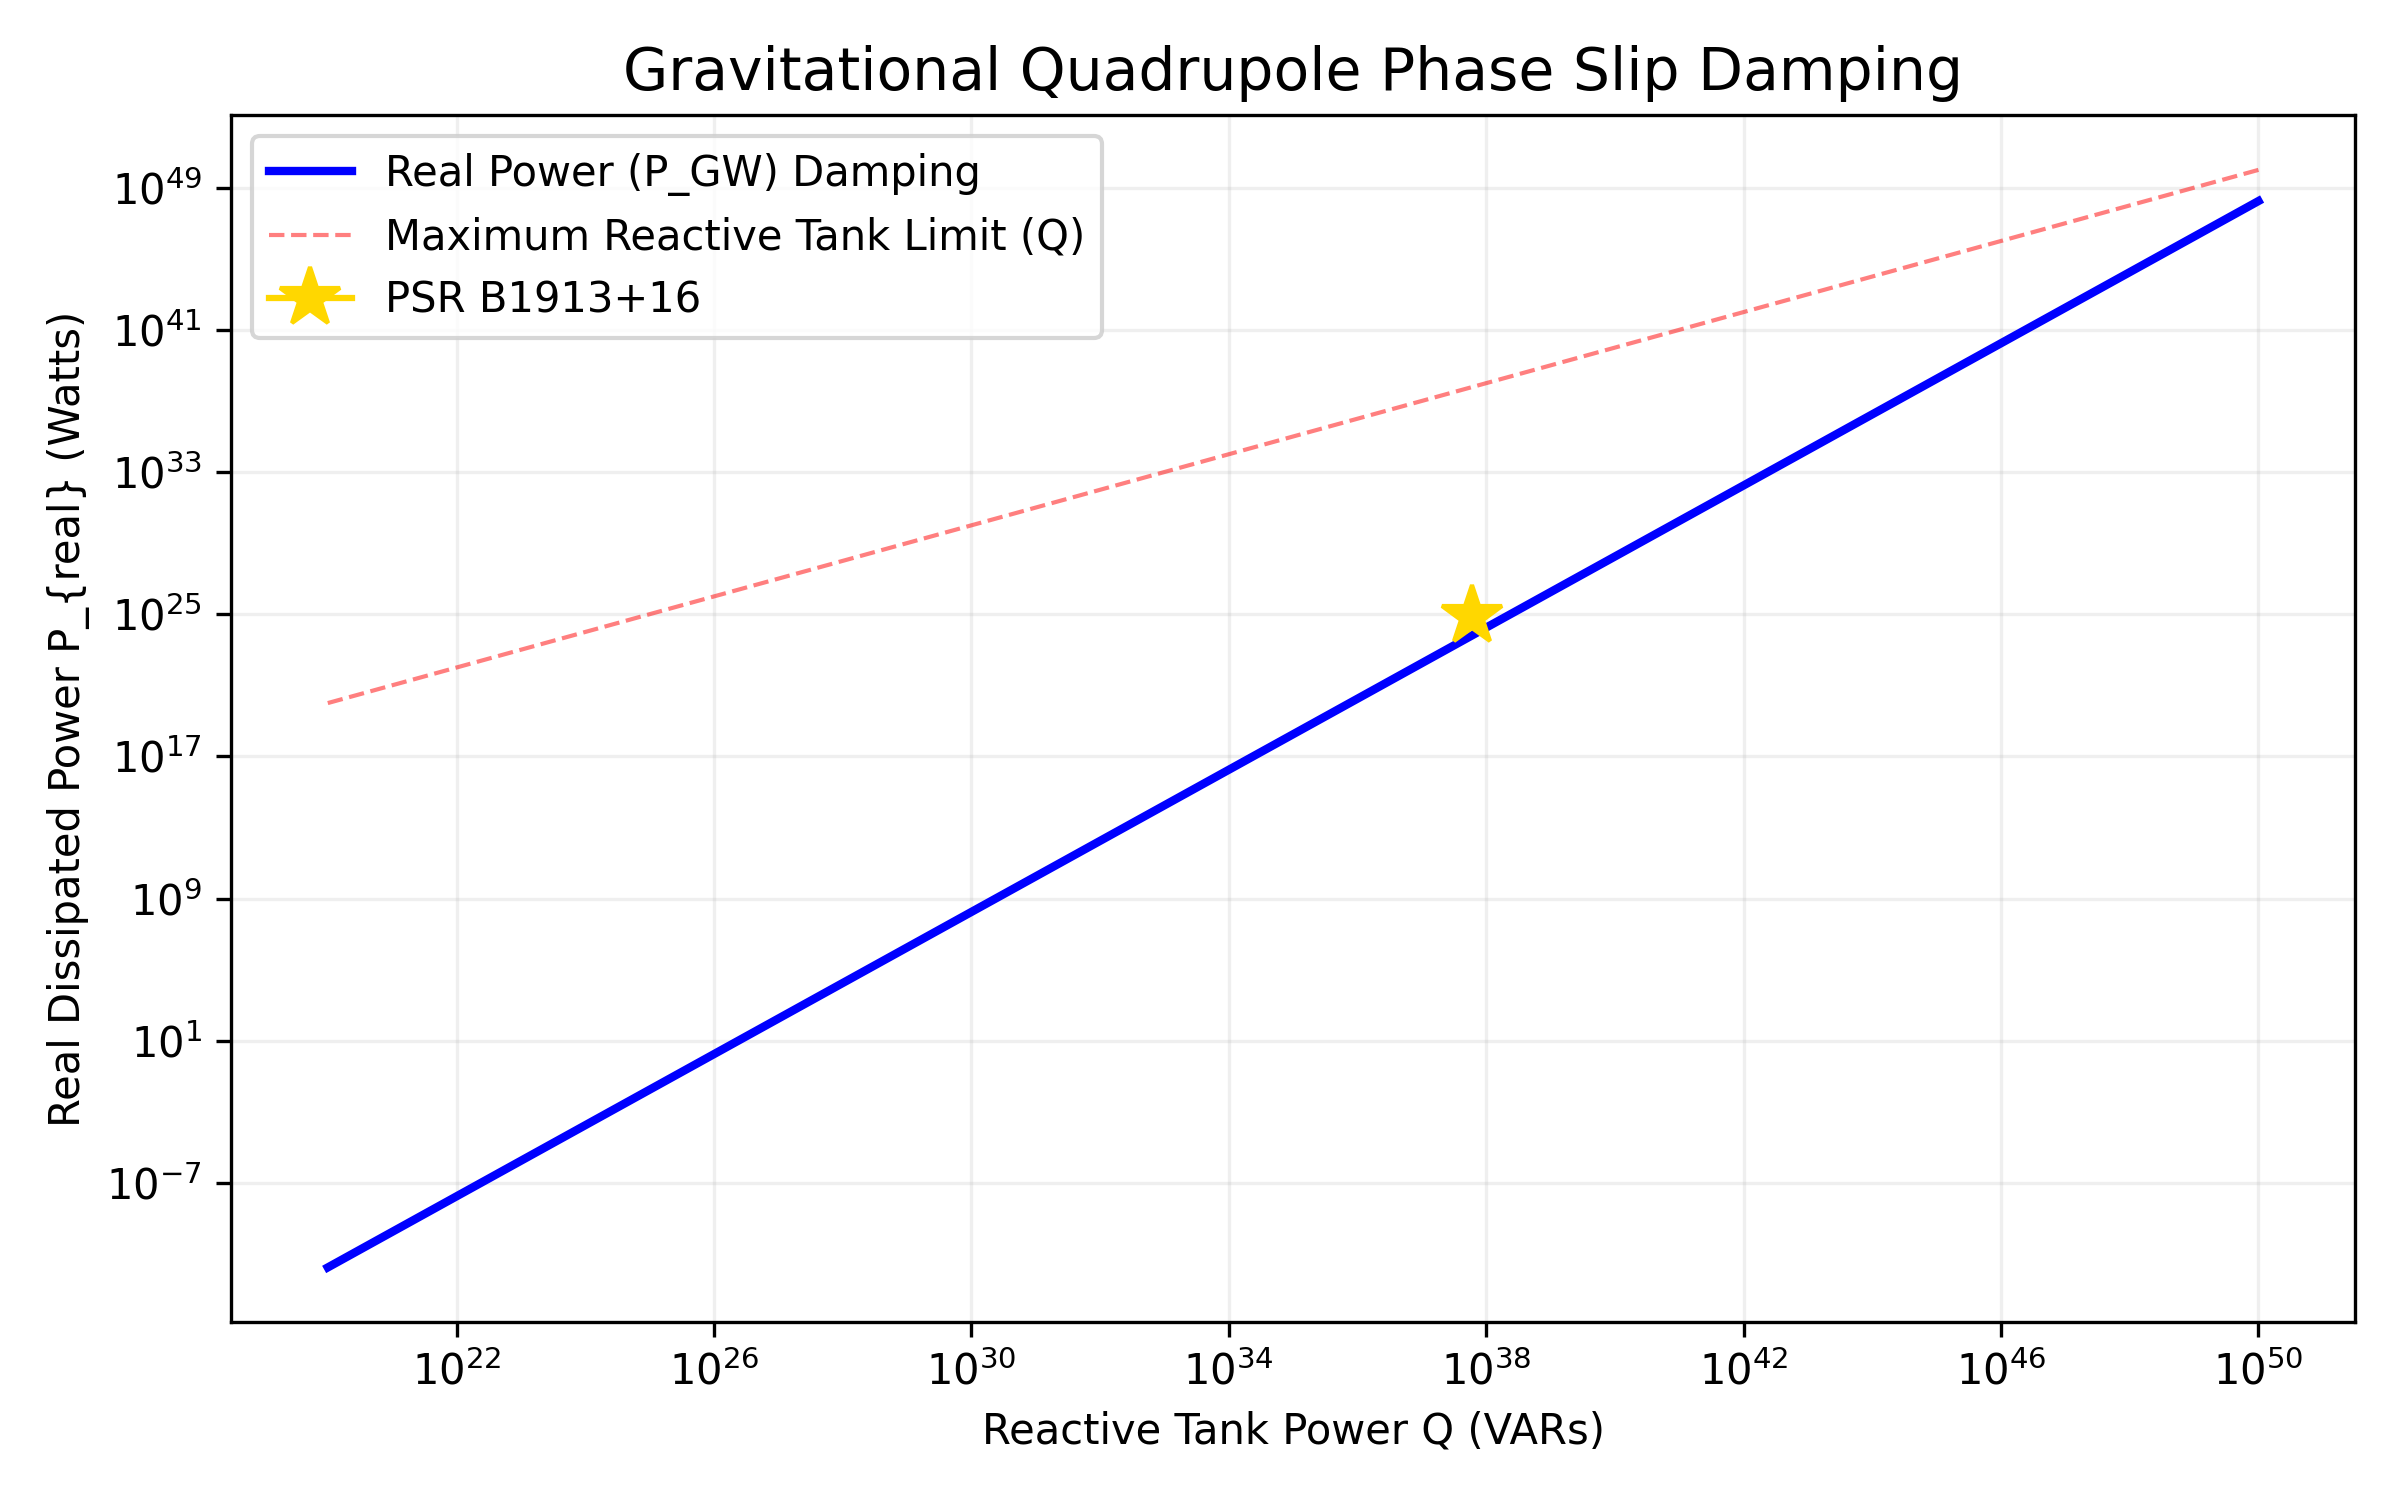
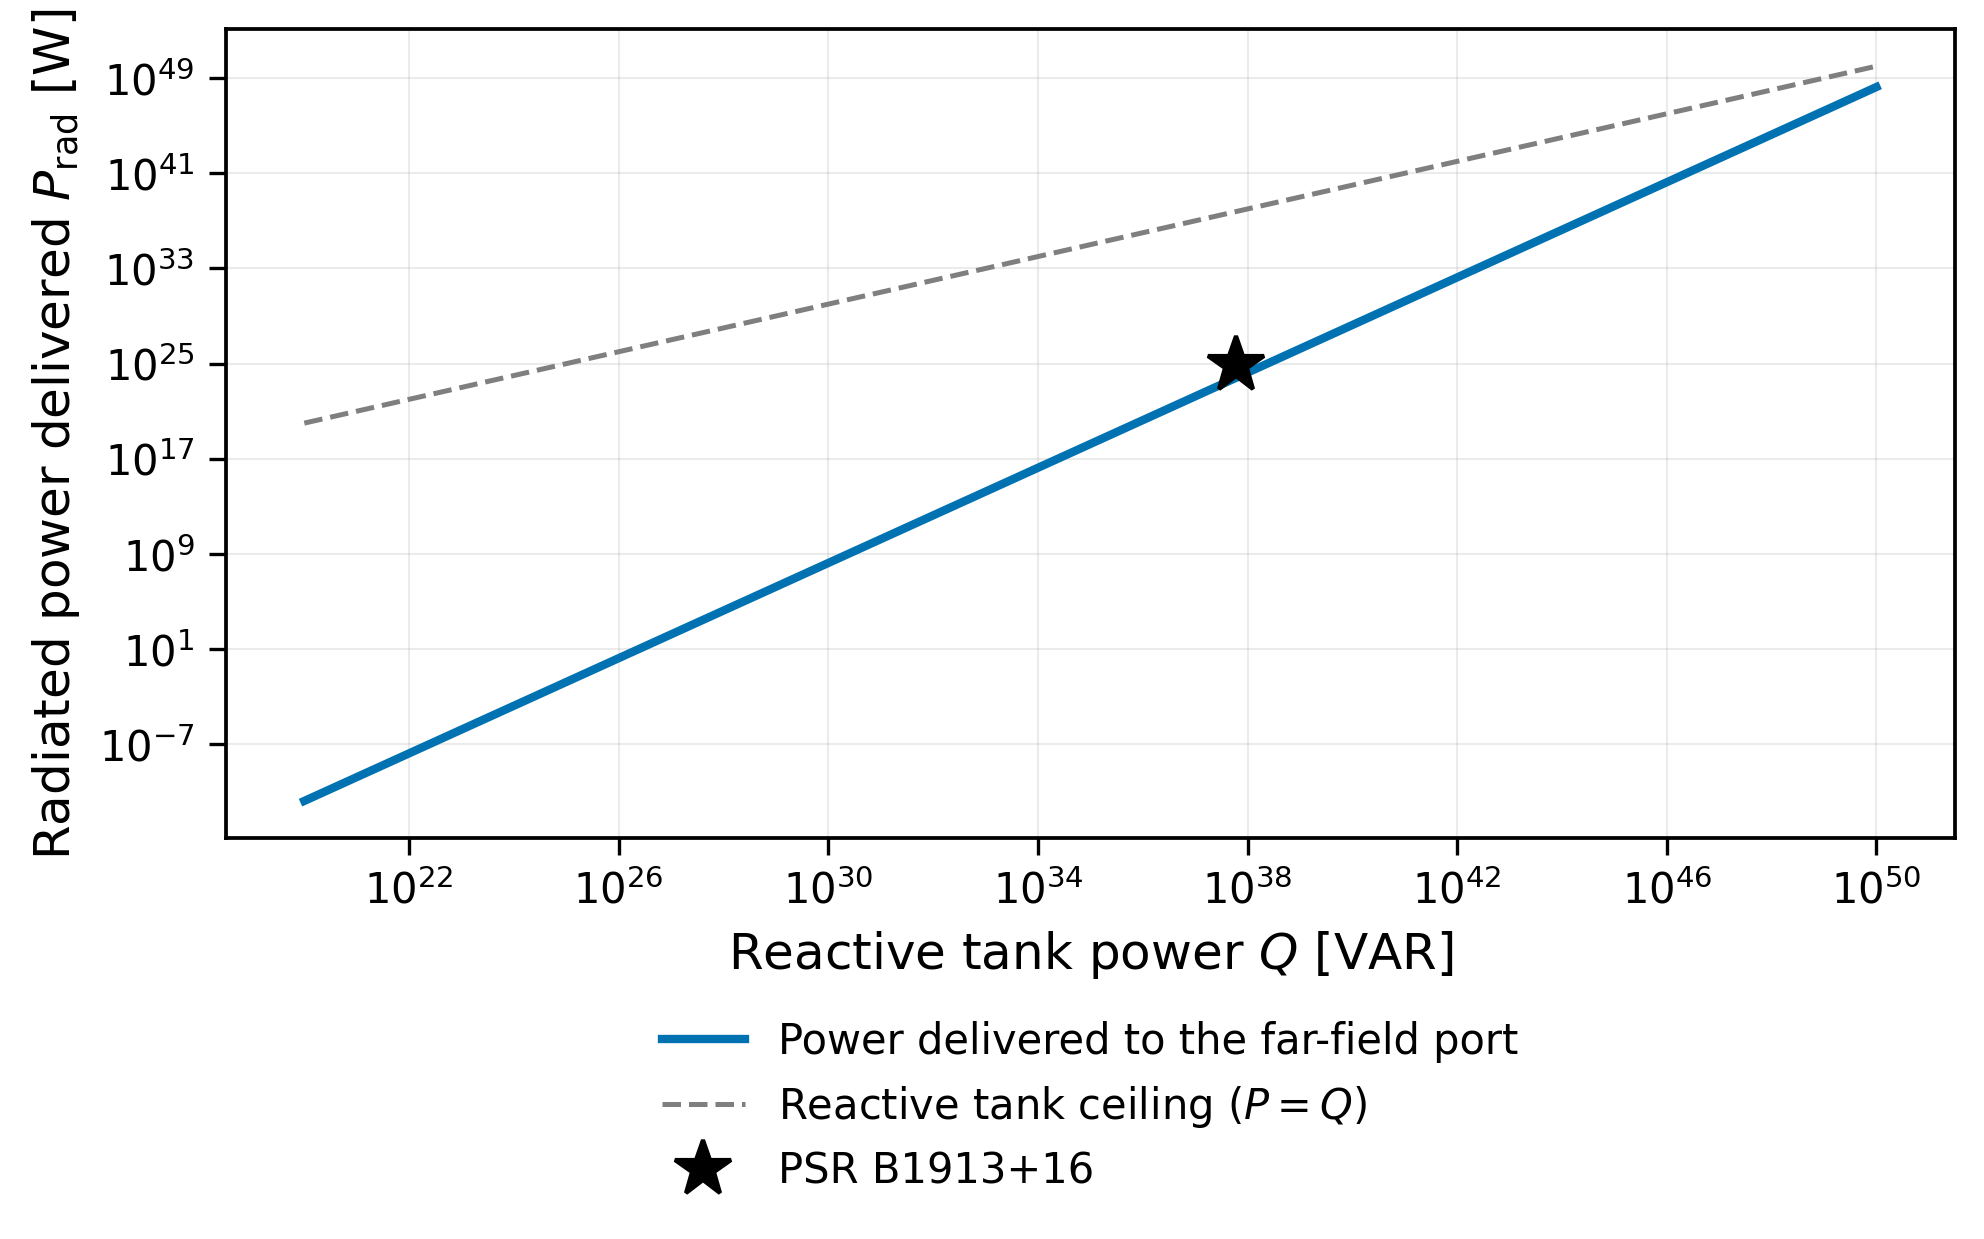
docs(ringdown): hulse_taylor regenerated generator-first + placed in ch08 (H)
R3/R6 coupling: the 2026-06-07 ledger's hulse_taylor PLACE-NEW targets vol3 ch08,
so under the one-print-touch rule it rides this wave. Not placed as-is.

GENERATOR-FIRST (R4 pattern): the fix goes in
src/scripts/vol_3_macroscopic/generate_manuscript_figures.py, not in the raster.
The rebuilt function calls ave.viz.style.apply() (print profile: white bg,
Okabe-Ito, black axes), places the legend OUTSIDE the data area via style.legend,
emits NO on-figure title (style.save(strict=True) would raise on a baked title),
and labels both axes with quantity + symbol + unit. The prior version printed a
raw un-rendered "P_{real}" on the ordinate -- a mathtext brace outside $...$ --
which is exactly the Axis-2/Axis-3 defect ave.viz.style mechanizes.

TRANSFER-COST FRAMING, and it is a correction not a restyle: the ordinate was
labelled "Real Dissipated Power". Per clm-xfrcst
(manuscript/ave-kb/common/transfer-cost-theorem.md, canonized in the mechanical
rulings batch so this wave would not wait on it) a real port at the boundary is a
DELIVERY terminal and delivery is not dissipation -- the substrate does not heat,
the energy leaves intact into whatever counts it. Axis label and caption both now
read "delivered to the far-field port".

Plotted quantities are unchanged: this is a presentation-tier rebuild, not a
physics change. The caption states the scope honestly -- the (v/c)^5 scaling and
the Peters-Mathews coefficients are carried over from the standard radiation
[…]

diff --git a/src/scripts/vol_3_macroscopic/generate_manuscript_figures.py b/src/scripts/vol_3_macroscopic/generate_manuscript_figures.py
@@ -63,40 +63,83 @@ def generate_solar_spin_tensors() -> None:
 
 
 def generate_hulse_taylor_phase_slip() -> None:
-    """
-    Generates fig_hulse_taylor_phase_slip.png
-    """
-    # Simply plot the geometric scaling of Phase Slip delta versus v/c limiting bounds
-    # v_c_ratios = np.logspace(-5, -1, 100)  # From 0.001% of c to 10% of c  # bulk lint fixup pass
+    """Generate ``fig_hulse_taylor_phase_slip.png`` under the house print style.
 
-    # delta ~ (v/c)^5
-    # Let's normalize it to the PSR B1913+16 bound
-    # We found delta ~ 10^-13 rad at v/c ~ 10^-3
-    # delta = k_quad / C_0^5 * Q ...
-    # We'll plot P_gw vs Q
+    Rebuilt 2026-08-05 (ringdown wave) under `ave.viz.style`: white print
+    profile, Okabe-Ito palette, legend OUTSIDE the data area, NO on-figure title
+    (the caption belongs in the LaTeX ``\\caption{}``), and honest axis labels
+    carrying quantity + symbol + unit. The prior version printed a raw,
+    un-rendered ``P_{real}`` on the y-axis (a mathtext brace outside ``$...$``),
+    which is exactly the Axis-2/Axis-3 defect this module mechanizes.
+
+    TRANSFER-COST FRAMING (`manuscript/ave-kb/common/transfer-cost-theorem.md`,
+    `clm-xfrcst`): the ordinate is the radiated power **DELIVERED to the
+    far-field port**, not power "dissipated". Nothing in the binary is a
+    resistor; the arrow appears because the transfer crosses the system boundary
+    through a counting port into a continuum of external modes. The prior label
+    said "Real Dissipated Power" and is corrected here, not merely re-styled.
+
+    Plotted quantities are the same as before -- this is a presentation-tier
+    rebuild, not a physics change. The (v/c)^5 quadrupole scaling and the
+    Peters--Mathews coefficients are carried over from the standard radiation
+    formula (see the chapter text), so the curve is a consistency reproduction,
+    not an independent first-principles derivation.
+    """
+    from ave.viz import style
+
+    style.apply()  # print profile: white background, Okabe-Ito, black axes
+
+    # Reactive tank power sweep (VAR). The damping branch is P = Q * delta with
+    # the quadrupole phase slip delta = (32/5) * (Q / P_Planck), P_Planck = c^5/G.
     Qs = np.logspace(20, 50, 100)
     P_planck = (C_0**5) / G
-
     delta = (32.0 / 5.0) * (Qs / P_planck)
-    P_real = Qs * delta  # Real power
+    P_delivered = Qs * delta
 
-    plt.figure(figsize=(8, 5))
-    plt.loglog(Qs, P_real, "b-", linewidth=2, label="Real Power (P_GW) Damping")
-    plt.loglog(Qs, Qs, "r--", linewidth=1, alpha=0.5, label="Maximum Reactive Tank Limit (Q)")
-
-    # Hulse Taylor specific point
+    # PSR B1913+16 operating point (empirical orbital bounds; see chapter text).
     Q_ht = 6.087e37
     P_ht = 7.749e24
-    plt.plot(Q_ht, P_ht, "gold", marker="*", markersize=15, label="PSR B1913+16")
 
-    plt.title("Gravitational Quadrupole Phase Slip Damping", fontsize=14)
-    plt.xlabel("Reactive Tank Power Q (VARs)")
-    plt.ylabel("Real Dissipated Power P_{real} (Watts)")
-    plt.grid(True, which="both", ls="-", alpha=0.2)
-    plt.legend()
-    plt.tight_layout()
-    plt.savefig(manuscript_path("vol_3_macroscopic", "figures", "fig_hulse_taylor_phase_slip.png"), dpi=300)
-    plt.close()
+    fig, ax = plt.subplots(figsize=style.figsize("single"))
+    ax.loglog(
+        Qs,
+        P_delivered,
+        color=style.COLORS["ave"],
+        linestyle="-",
+        linewidth=2,
+        label="Power delivered to the far-field port",
+    )
+    ax.loglog(
+        Qs,
+        Qs,
+        color=style.COLORS["muted"],
+        linestyle="--",
+        linewidth=1.2,
+        label="Reactive tank ceiling ($P = Q$)",
+    )
+    ax.plot(
+        Q_ht,
+        P_ht,
+        color=style.COLORS["data"],
+        marker="*",
+        markersize=14,
+        linestyle="none",
+        label="PSR B1913+16",
+    )
+
+    ax.set_xlabel(style.axis_label("Reactive tank power", "Q", "VAR"))
+    ax.set_ylabel(style.axis_label("Radiated power delivered", "P_{\\mathrm{rad}}", "W"))
+    ax.grid(True, which="both", alpha=0.25)
+    style.legend(ax, where="below", ncol=1)
+
+    style.save(
+        fig,
+        manuscript_path("vol_3_macroscopic", "figures", "fig_hulse_taylor_phase_slip.png"),
+        dpi=300,
+        formats=("png",),
+        strict=True,
+    )
+    plt.close(fig)
 
 
 def generate_galactic_flattening() -> None:

diff --git a/manuscript/vol_3_macroscopic/chapters/08_gravitational_waves.tex b/manuscript/vol_3_macroscopic/chapters/08_gravitational_waves.tex
@@ -110,6 +110,13 @@ Modeling the Hulse-Taylor binary pulsar as a macro-electrical orbital LC tank (\
 
 The circuit model reproduces the observed orbital decay to within $\sim 2\%$, showing that the general-relativistic quadrupole result can be cast as transmission-line phase-retardation across the LC lattice.
 
+\begin{figure}[htbp]
+    \centering
+    \includegraphics[width=0.85\textwidth]{fig_hulse_taylor_phase_slip.png}
+    \caption{\textbf{Quadrupole phase-slip damping of the binary orbital tank.} The blue branch is the radiated power \textbf{delivered to the far-field port}, $P_{\mathrm{rad}} = Q\,\delta$, against the reactive tank power $Q$ of the orbital LC tank; the grey dashed line is the reactive ceiling $P = Q$; the star marks PSR~B1913+16 at its empirical orbital bounds. \textbf{Transfer-cost framing, and it is load-bearing:} the ordinate is power \emph{delivered}, \textbf{not} power ``dissipated'' --- nothing in the binary is a resistor. Per the transfer-cost theorem (\kbleaf{ave-kb/common/transfer-cost-theorem.md}, \texttt{clm-xfrcst}), within-system reactive exchange is free however many channels it crosses; an arrow appears only where the transfer crosses the \emph{system boundary} through a counting port, and a real port at the boundary is a \textbf{delivery terminal} --- the substrate does not heat, the energy leaves intact into whatever counts it. \emph{Scope:} the $(v/c)^5$ quadrupole scaling and the Peters--Mathews coefficients are carried over from the standard radiation formula (see the derivation above), so this is a \textbf{consistency reproduction} cast in circuit variables, not an independent first-principles derivation of the decay rate.}
+    \label{fig:hulse_taylor_phase_slip}
+\end{figure}
+
 % Rule-12 closure (2026-07-20, Grant Q1 ruling): the "unresolved channel attribution"
 % warningbox is CLOSED with a dated RESOLVED-with-receipt lead-in; the ORIGINAL warningbox
 % text is PRESERVED VERBATIM below the lead-in per KEEP-BOTH (do not delete it). Grant ruled

diff --git a/research/2026-06-07_figure-audit-ledger.md b/research/2026-06-07_figure-audit-ledger.md
@@ -46,7 +46,7 @@
 | `lithium_7_density_z_pos.png` | `vol_6 …05_lithium.tex:29` (off-equator minipage) | element render, slot exists. *(NB: 05_lithium.tex has a duplicate-figure bug.)* |
 | `circuit_be8_decay.pdf` | `vol_6 …06_beryllium.tex` §"Topological Area of Interest" | decay-circuit, figure-less section. |
 | `circuit_orbital_phase_jitter.pdf` | `vol_2 …07_…orbitals.tex:264` §"The Mutual Cavity" | figure-less subsection. |
-| `fig_hulse_taylor_phase_slip.png` | `vol_3 …08_gravitational_waves.tex` §"Hulse-Taylor Binary Pulsar" (:68-78) | the only figure-less stretch in ch08; *(gap-sweep)* |
+| ~~`fig_hulse_taylor_phase_slip.png`~~ **EXECUTED 2026-08-05** | `vol_3 …08_gravitational_waves.tex` §"Hulse-Taylor Binary Pulsar" | ~~the only figure-less stretch in ch08; *(gap-sweep)*~~ **PLACED in the ringdown wave (one-print-touch coupling, R6). Not placed as-is:** the figure was REGENERATED generator-first under the house print style (white, Okabe-Ito, legend outside the data, no on-figure title, honest quantity+symbol+unit axis labels — the prior raster printed a raw un-rendered `P_{real}`), and the caption carries the TRANSFER-COST framing (radiated power **delivered to the far-field port**, not "dissipated"; `common/transfer-cost-theorem.md`, `clm-xfrcst`). Generator: `src/scripts/vol_3_macroscopic/generate_manuscript_figures.py`. |
 | `sonoluminescence_challenge.png` | `vol_4 …11_experimental_falsification.tex` §"Acoustic Cavitation" | FOC-isomorphism subsection has no figure; *(gap-sweep)* |
 | `k4_native_chirality.png` | `vol_4 …01_vacuum_circuit_analysis.tex` §"K4-TLM (Tetrahedral Diamond)" | solver subsection describes chirality verbally, no figure; *(gap-sweep)* |
 
